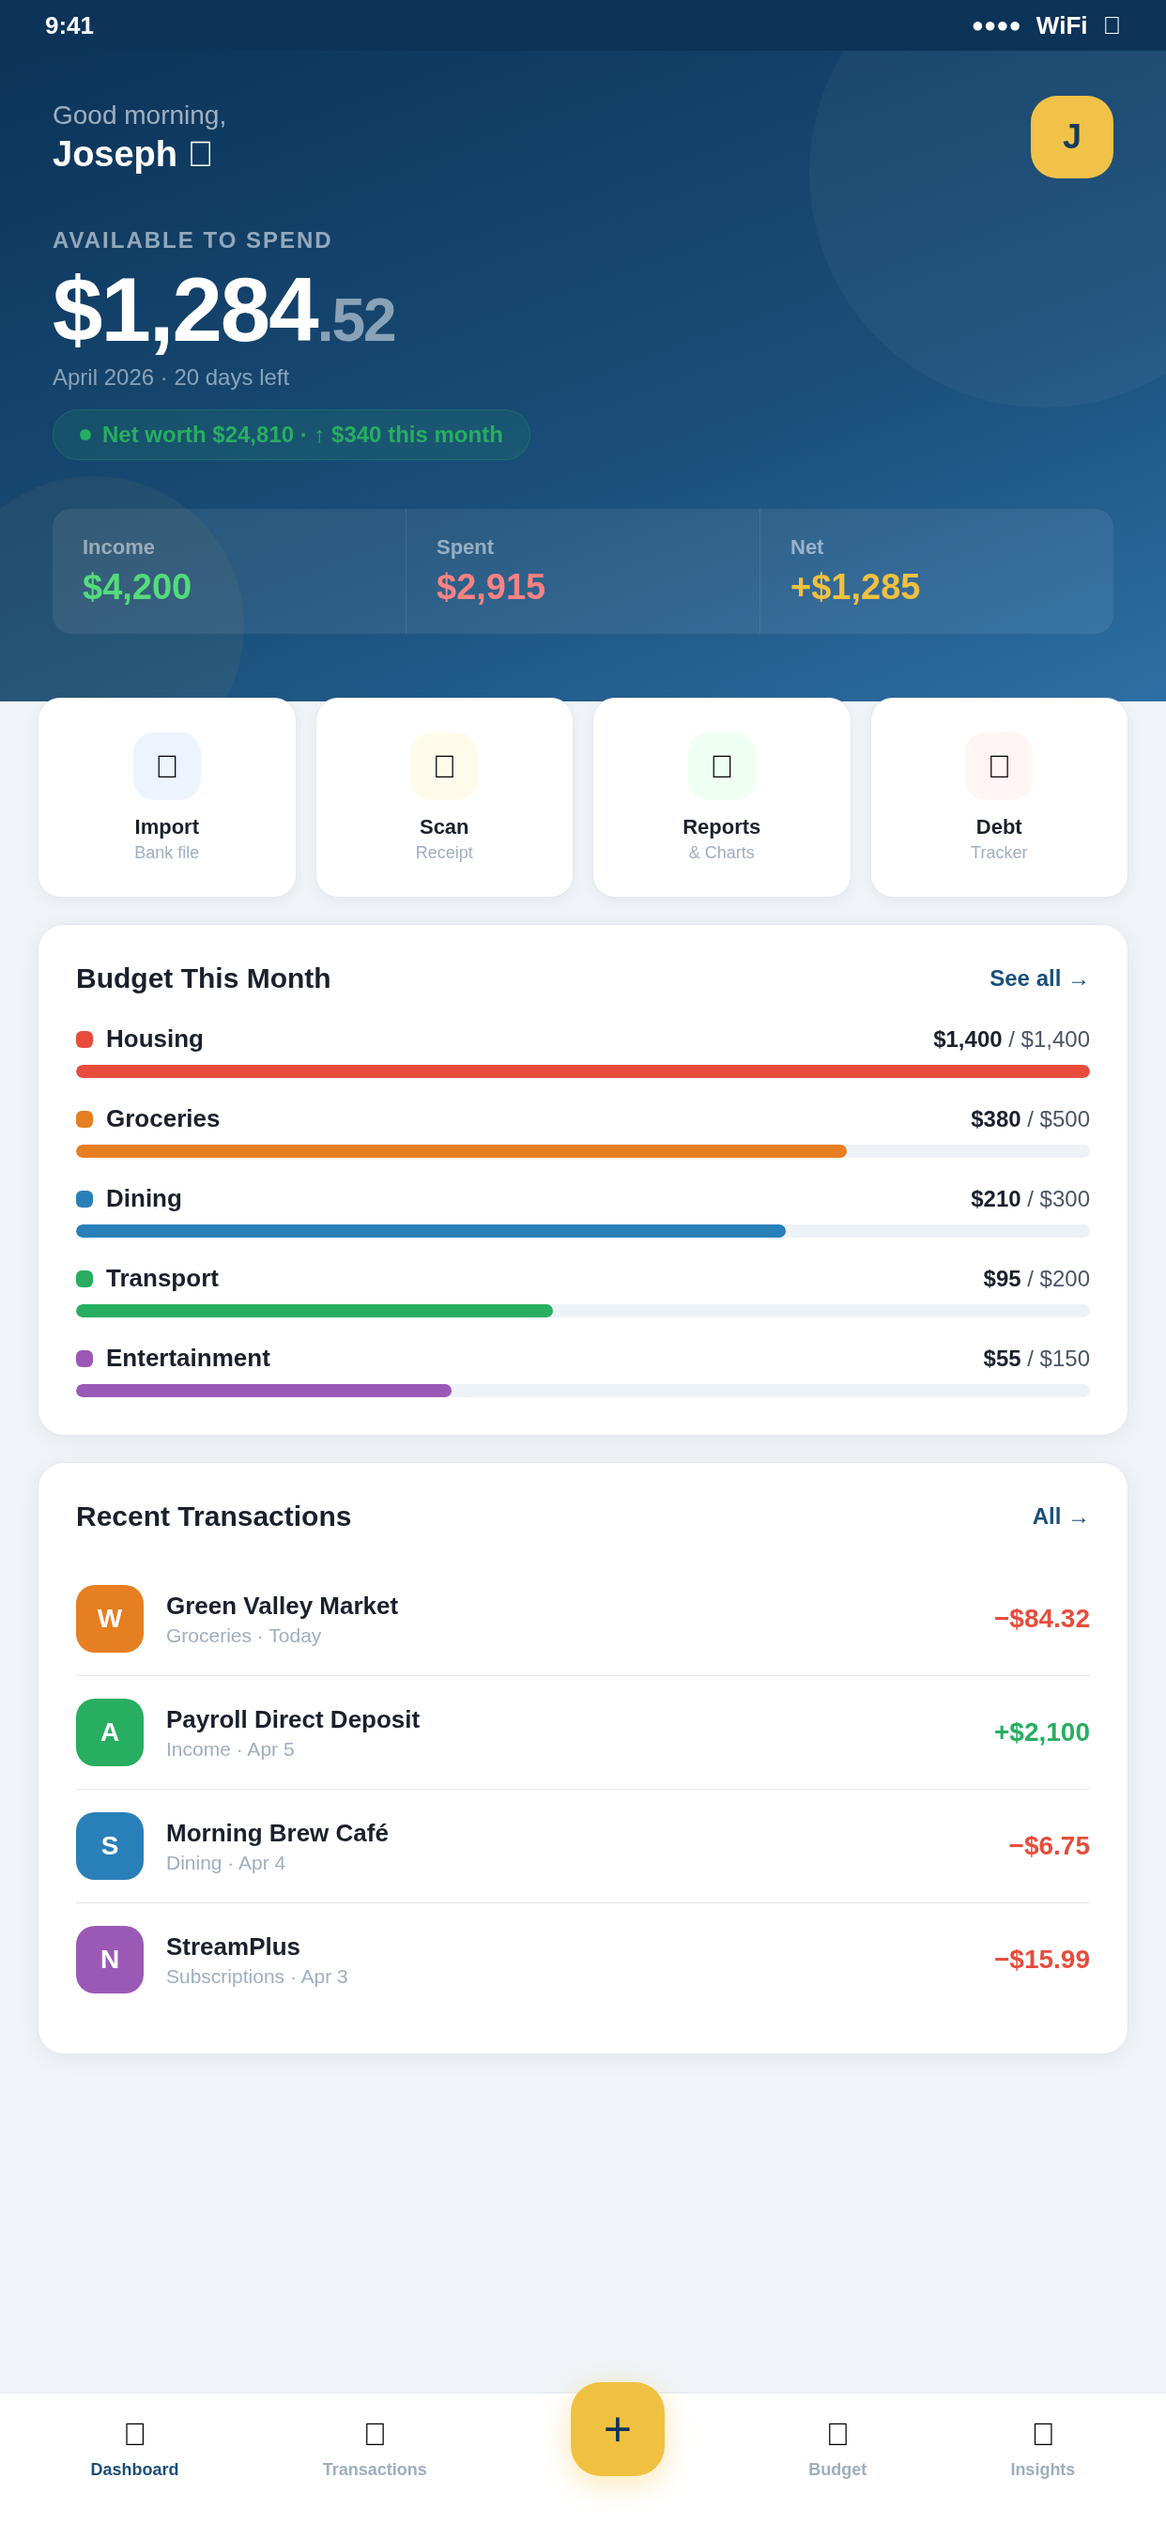
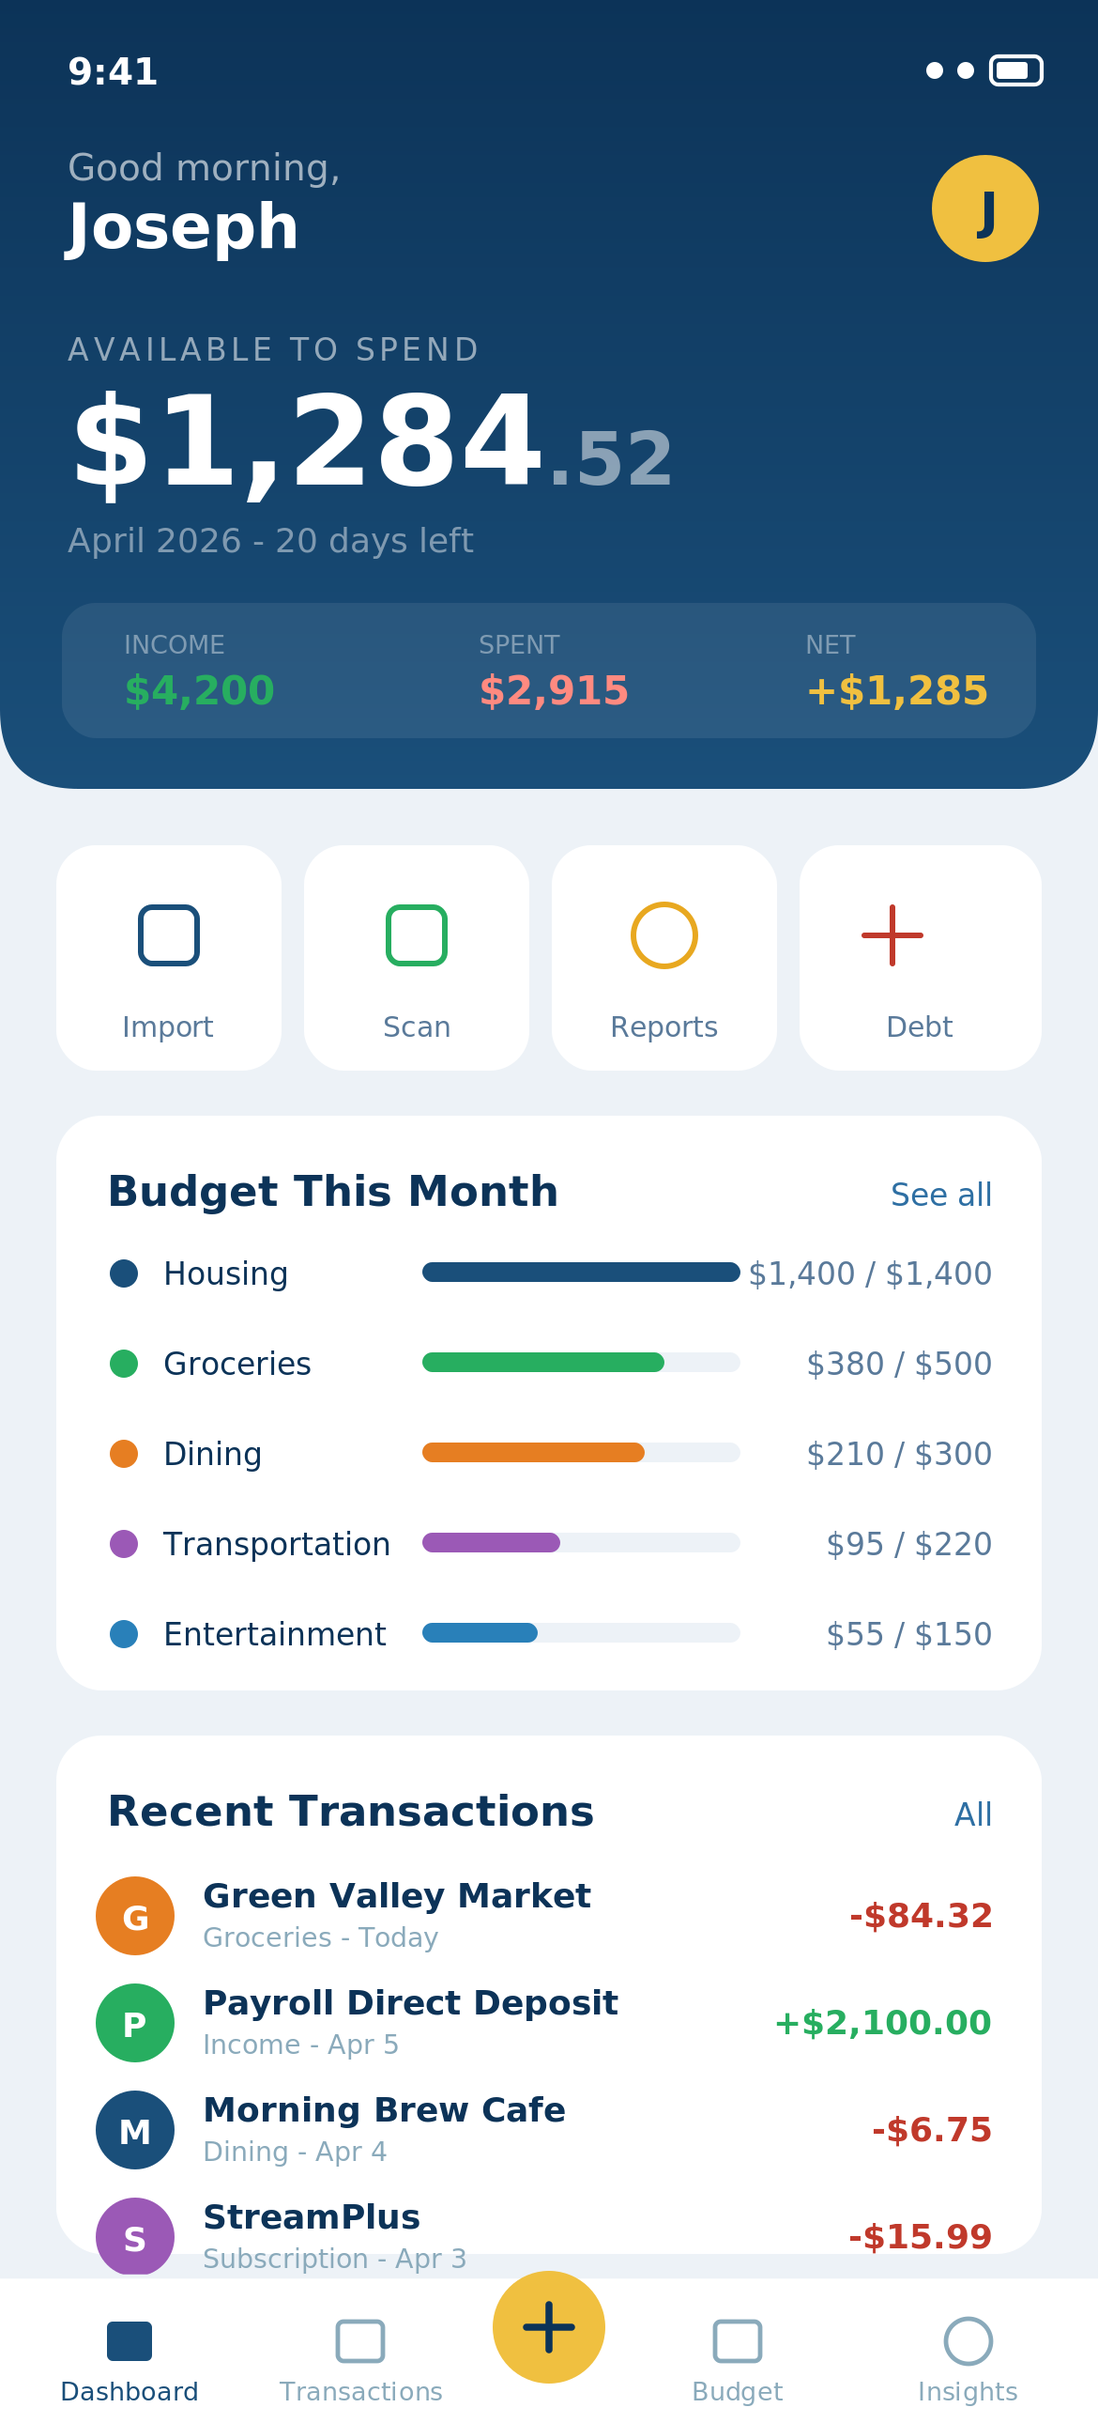
Site update
New screen-shots

diff --git a/docs/pocketbudjet/PocketBudJet_PrivacyPolicy.html b/docs/pocketbudjet/PocketBudJet_PrivacyPolicy.html
@@ -54,7 +54,7 @@ footer .fn span{color:var(--gold);}
   <span class="doc-type">PocketBudJet · Legal Document</span>
   <h1>Privacy Policy</h1>
   <div class="doc-meta">
-    <span>Effective Date: May 17, 2026</span>
+    <span>Effective Date: May 20, 2026</span>
     <span>Developer: JosspaTech</span>
     <span>Contact: <a href="mailto:support@josspatech.com">support@josspatech.com</a></span>
   </div>
@@ -62,7 +62,7 @@ footer .fn span{color:var(--gold);}
 
 <main>
   <div class="summary-box">
-    <strong>The short version:</strong> We don't ask for your name, address, SSN, or bank credentials. Your financial data lives on your device by default — you decide if you want to back it up to a cloud provider <em>you pick</em>. A few transaction-level details are sent (anonymized) to power smart features like AI coaching, crowd benchmarks, and merchant categorization — the sections below list exactly what, when, and why.
+    <strong>The short version:</strong> We don't ask for your name, address, SSN, or bank credentials. Your financial data lives on your device by default — you decide if you want to back it up to a cloud provider <em>you pick</em>. A few transaction-level details are sent (anonymized) to power smart features like AI coaching, crowd benchmarks, merchant categorization, and suggested category splits — the sections below list exactly what, when, and why. Every outbound data flow that contributes to the shared crowd model can be turned off in Settings → Data &amp; Privacy without affecting the rest of the app.
   </div>
 
   <h2>1. Information We Collect</h2>
@@ -117,11 +117,13 @@ footer .fn span{color:var(--gold);}
     <li><strong>Anthropic:</strong> the email subject and body for parsing into structured fields. Anthropic does not retain customer API inputs for training (see Anthropic's Commercial Terms and privacy policy).</li>
   </ul>
   <p><strong>What is NOT sent:</strong> your name, phone number, postal address, account numbers, or any data unrelated to the forwarded email.</p>
+  <p><strong>Few-shot learning corpus (added May 2026):</strong> When you confirm a forwarded transaction in PocketBudJet, the list of line items extracted from the message (e.g. "eggs, bread, Tide pods") plus the category you confirmed (e.g. "Groceries") is sent to the JosspaTech Worker and stored as an example for the merchant. The Worker uses the most recent 5 examples per merchant to prompt Anthropic on future extractions from the same merchant, improving accuracy over time. No amounts, dates, or personal identifiers are sent with these examples. You can opt out of contributing to this corpus in Settings → Data &amp; Privacy → "Help PBJ learn from everyone." When opted out, your confirmations are still saved locally but nothing is sent to the Worker.</p>
   <p><strong>Retention:</strong></p>
   <ul>
     <li>Forwarded message bodies are processed in-flight and are not retained after structured extraction.</li>
     <li>The mapping of <em>{your forwarding address → your device}</em> is stored on the JosspaTech Worker for as long as the feature stays enabled. Disabling Email Forwarding removes the mapping.</li>
     <li>Parsed transactions waiting for your device to pick them up are kept for <strong>up to 7 days</strong>, then deleted automatically.</li>
+    <li>Few-shot examples (items + category per merchant) are retained on the Worker indefinitely as part of the shared learning corpus. They are not linked to your device or identity.</li>
   </ul>
   <p><strong>Disabling:</strong> Settings → Import &amp; Connections → Email Forwarding → Disable. This removes your forwarding address mapping from the Worker; subsequent emails are discarded.</p>
 
@@ -138,18 +140,8 @@ footer .fn span{color:var(--gold);}
   <p>The AI Financial Coach is disabled by default and can be toggled in Settings. You can use PocketBudJet indefinitely without ever turning it on.</p>
 
   <h2>6. Bank Account Connectivity</h2>
-  <p>PocketBudJet offers an optional feature to connect your bank accounts for automatic transaction import. This feature is provided via <strong>Quiltt, Inc.</strong>, a third-party financial data aggregator. Bank connectivity is available to paid-tier subscribers only and is entirely opt-in — disabled by default and enabled only by your explicit action through the in-app connection flow.</p>
-  <p><strong>How the data flows:</strong></p>
-  <ul>
-    <li>When you choose to connect a bank, PocketBudJet hands you off to Quiltt's secure connection flow. You enter your bank credentials directly with Quiltt or your bank — JosspaTech never sees, receives, or stores your bank credentials.</li>
-    <li>Quiltt establishes the connection with your bank and returns an access token to PocketBudJet. That token is stored on your device in iOS Keychain / Android Keystore — it never leaves your device unencrypted.</li>
-    <li>When the app fetches transactions, it asks Quiltt (using the stored token) to retrieve recent activity. Quiltt fetches from your bank and returns the transactions to PocketBudJet, where they are stored locally on your device alongside the rest of your financial data.</li>
-    <li>You control sync frequency. Manual-only sync is supported. You can disconnect any bank at any time from Settings → Financial Sources, which revokes Quiltt's access and deletes the stored token from your device.</li>
-  </ul>
-  <p><strong>What Quiltt sees and does with it:</strong> Quiltt acts as a service provider / processor on your behalf to retrieve your transaction data. They see your bank credentials (which you enter into their secure flow), your account balances and transactions, and the merchant strings and amounts in those transactions. Quiltt's own privacy practices apply to that data — see <a href="https://www.quiltt.io/privacy" target="_blank" rel="noopener noreferrer">https://www.quiltt.io/privacy</a> for their disclosures. JosspaTech does not receive a copy of your bank credentials, and our handling of the transaction data Quiltt returns is governed by the rest of this Privacy Policy (it stays on your device unless you've enabled an optional cloud backup or anonymized crowd contribution).</p>
-  <p><strong>Paid-tier gating:</strong> The bank-sync feature is part of PocketBudJet's paid tier. If you cancel your subscription, the bank-sync connection is disconnected automatically and the stored access token is removed from your device. Transactions that were previously imported remain on your device — disconnecting does not delete your historical data.</p>
-  <p><strong>Trial users:</strong> Bank sync may be available during free trials. At the end of your trial, if you do not subscribe, the bank-sync connection is automatically disconnected and the stored token is removed. You will retain any transactions already imported, but no new transactions will be synced.</p>
-  <p><strong>Your rights:</strong> You can request deletion of any data Quiltt holds about you by contacting Quiltt directly (see their privacy policy for the deletion-request process). PocketBudJet's own data deletion process is described in Section 11 below.</p>
+  <p><strong>Automatic bank-account syncing is not currently active in PocketBudJet.</strong> The app's transaction import is performed entirely through (a) CSV / OFX / QFX / PDF files you import yourself from your bank's web portal, (b) receipt scans, or (c) the optional Email Forwarding feature described in §4. JosspaTech does not have any active connection to your bank, does not see your bank login credentials, and does not pull transactions from your bank on your behalf.</p>
+  <p>If automatic bank-account syncing is added to PocketBudJet in a future release through a third-party data aggregator (e.g. Plaid, Teller, MX, or similar), this section will be updated to describe the exact data flow, the third party's identity, what they see, retention, and how to opt out — before the feature ships to users. We will also surface a material-changes notice in the app under §14 below.</p>
 
   <h2>7. Voice Shortcuts</h2>
   <p>Voice shortcuts (Siri on iOS, Google Assistant / App Actions on Android) are opt-in and off by default. Voice audio is processed by Apple or Google under their respective privacy policies — not by JosspaTech. Only the resulting text command is used to create a transaction locally on your device.</p>
@@ -167,14 +159,17 @@ footer .fn span{color:var(--gold);}
   <p>PocketBudJet uses Firebase Crashlytics to collect anonymous crash diagnostics so we can find and fix bugs. Crash reports contain stack traces, device model, OS version, and app version. They do <strong>not</strong> contain your financial data. You can opt out in Settings → Data &amp; Privacy.</p>
 
   <h2>10. Crowd Benchmarks and Merchant Intelligence</h2>
-  <p>To make the app smarter for everyone, PocketBudJet contributes a small amount of anonymized data to a shared pool hosted by JosspaTech (PocketBase). You can turn this off any time in Settings → Data &amp; Privacy.</p>
+  <p>To make the app smarter for everyone, PocketBudJet contributes a small amount of anonymized data to a shared pool hosted by JosspaTech (PocketBase, plus the JosspaTech Cloudflare Worker key-value store). You can turn this off any time in Settings → Data &amp; Privacy → "Help PBJ learn from everyone." Turning it off stops outbound contributions; you still receive the benefit of other users' contributions in your category suggestions.</p>
   <p><strong>What is contributed:</strong></p>
   <ul>
-    <li><strong>Merchant → category mappings</strong> (e.g. "Target → Groceries"). No amounts, dates, or identifiers.</li>
+    <li><strong>Merchant → category mappings</strong> (e.g. "Target → Groceries"). One vote per confirmation. No amounts, dates, or identifiers. Categories must be one of PocketBudJet's 15 default categories — generic merchant-name buckets (e.g. "Amazon", "Walmart") are filtered out and never become votes.</li>
+    <li><strong>Suggested category splits</strong> (added May 2026): when you accept or adjust a suggested category split on a multi-category merchant (e.g. Walmart trip = 60% Groceries / 30% Household / 10% Clothing), the merchant slug, a coarse amount bucket (e.g. "$100&ndash;$300"), and the percentage distribution are sent. <strong>The actual transaction amount is never sent — only the bucket it falls into.</strong> No dates, no user ID, no device ID. This powers the credibility-blended split suggestions you see for big-box merchants.</li>
+    <li><strong>Few-shot extraction examples</strong> (added May 2026): when you confirm a forwarded email transaction, the line items (e.g. "eggs, bread, Tide pods") and the category you confirmed are stored on the Worker as an example for that merchant, capped at 5 most-recent per merchant. The Worker uses them to prompt Anthropic on future emails. See §4 for detail.</li>
     <li><strong>Bucketed spending benchmarks</strong> by category, keyed to zip code and country, using coarse buckets so individual transactions are never reconstructable. No user ID, device ID, or IP.</li>
     <li><strong>Product intelligence</strong>: if you scan a barcode, the UPC is queried against public databases (upcitemdb.com, openfoodfacts.org). The UPC is all that's sent.</li>
   </ul>
-  <p>This pool powers features like "how does my Groceries spend compare to others in my zip?" and auto-categorization suggestions. JosspaTech may use the aggregated merchant database for commercial purposes, including licensing to third parties. Individual user data is not identifiable in the pool.</p>
+  <p><strong>What is NEVER contributed to the crowd pool:</strong> your actual transaction amounts, transaction dates, account numbers, merchant strings the model can't confidently slugify, your name, your email, your phone, your device identifier, your IP address, your zip code outside of the §10 benchmark feature (which itself is opt-in), or any link back to you.</p>
+  <p>This pool powers features like "how does my Groceries spend compare to others in my zip?", auto-categorization suggestions on imports, and credibility-blended split suggestions on big-box merchants. JosspaTech may use the aggregated merchant database for commercial purposes, including licensing to third parties. Individual user data is not identifiable in the pool.</p>
 
   <h2>11. Other Network Services</h2>
   <ul>

diff --git a/index.html b/index.html
@@ -1385,7 +1385,7 @@ body{font-family:'Source Sans 3',sans-serif;background:var(--bg);color:var(--nav
       <div class="hero-eyebrow"><div class="hero-dot"></div>Budget Privately &middot; iOS &amp; Android</div>
       <h1 class="hero-h1">Know where every<br>dollar went.<br><em>Keep it all private.</em></h1>
       <p class="hero-tagline">because your finances should go together as smoothly as PB&amp;J</p>
-      <p class="hero-sub">Budgets, debt payoff, AI coaching, receipt scanning, PC dashboard &mdash; with no account, no bank login, and no personal info required. <strong><strong>Free to download. Upgrade anytime.</strong> Cancel anytime.</p>
+      <p class="hero-sub">Budgets, debt payoff, AI coaching, receipt scanning, PC dashboard &mdash; no account and no personal info required. Connect a bank for hands-off automation, or stay fully manual &mdash; your call. <strong>Free to download. Upgrade anytime. Cancel anytime.</strong></p>
       <div class="hero-acts">
         <a href="#download" class="btn-primary">Start Free &#8594;</a>
         <a href="how-to/" class="btn-ghost" style="border-color:rgba(255,255,255,0.3);color:rgba(255,255,255,0.85);">How To &amp; Guides</a>
@@ -1722,7 +1722,7 @@ body{font-family:'Source Sans 3',sans-serif;background:var(--bg);color:var(--nav
       <div>
         <span class="sec-ey">How We Compare</span>
         <h2 class="sec-ti">More features. Lower price.<br><em>Your data stays yours.</em></h2>
-        <p class="sec-su" style="margin-bottom:0;">Other budgeting apps cost $80&ndash;$109 per year and require you to hand over bank credentials. PocketBudJet starts at $74.99/year, works without an account or bank login, and gives you Free tier &mdash; upgrade when you're ready.</p>
+        <p class="sec-su" style="margin-bottom:0;">Other budgeting apps cost $80&ndash;$109 per year and require you to hand over bank credentials just to get started. PocketBudJet starts at $74.99/year, never requires an account, and lets you connect a bank only if you want to &mdash; start on the Free tier and upgrade when you're ready.</p>
       </div>
       <div>
         <table class="ctbl">
@@ -1730,7 +1730,7 @@ body{font-family:'Source Sans 3',sans-serif;background:var(--bg);color:var(--nav
           <tbody>
             <tr><td>Free tier with all essentials</td><td class="xx">&#10007;</td><td class="ck">&#10003;</td></tr>
             <tr><td>You choose where data lives</td><td class="xx">&#10007;</td><td class="ck">&#10003;</td></tr>
-            <tr><td>No bank login required</td><td class="xx">&#10007;</td><td class="ck">&#10003;</td></tr>
+            <tr><td>Bank connection optional &mdash; never required</td><td class="xx">&#10007;</td><td class="ck">&#10003;</td></tr>
             <tr><td>No account required</td><td class="xx">&#10007;</td><td class="ck">&#10003;</td></tr>
             <tr><td>AI Financial Coach included</td><td class="nt">Add-on / none</td><td class="ck">&#10003;</td></tr>
             <tr><td>PC Web Dashboard (WiFi)</td><td class="xx">&#10007;</td><td class="ck">&#10003;</td></tr>
@@ -1907,6 +1907,7 @@ body{font-family:'Source Sans 3',sans-serif;background:var(--bg);color:var(--nav
           <tr><td>Unlimited financial sources</td><td class="ck">&#10003;</td></tr>
           <tr class="sr"><td colspan="2">Import &amp; Scanning</td></tr>
           <tr><td>Bank file import (CSV &middot; OFX &middot; QFX &middot; QIF &middot; XLSX)</td><td class="ck">&#10003;</td></tr>
+          <tr><td>Direct bank connection &mdash; optional automatic transaction sync</td><td class="ck">&#10003;</td></tr>
           <tr><td>Receipt scanning &mdash; AI-powered, cloud-assisted</td><td class="ck">&#10003;</td></tr>
           <tr><td>Bill &amp; pay stub scanning (AI-powered)</td><td class="ck">&#10003;</td></tr>
           <tr><td>Network scanner &amp; flatbed support (WiFi eSCL/AirScan)</td><td class="ck">&#10003;</td></tr>
@@ -1915,7 +1916,7 @@ body{font-family:'Source Sans 3',sans-serif;background:var(--bg);color:var(--nav
           <tr><td>Notification transaction capture (Android)</td><td class="ck">&#10003;</td></tr>
           <tr><td>Screenshot transaction import (OCR)</td><td class="ck">&#10003;</td></tr>
           <tr><td>Universal document scanning (W-2, pay stubs&hellip;)</td><td class="ck">&#10003;</td></tr>
-          <tr><td>Auto-categorization (200+ merchants)</td><td class="ck">&#10003;</td></tr>
+          <tr><td>Auto-categorization &mdash; AI-powered, learns from your corrections</td><td class="ck">&#10003;</td></tr>
           <tr><td>Transaction rules (auto-categorize by merchant)</td><td class="ck">&#10003;</td></tr>
           <tr class="sr"><td colspan="2">Intelligence &amp; Insights</td></tr>
           <tr><td>Debt strategy engine (Avalanche vs Snowball)</td><td class="ck">&#10003;</td></tr>
